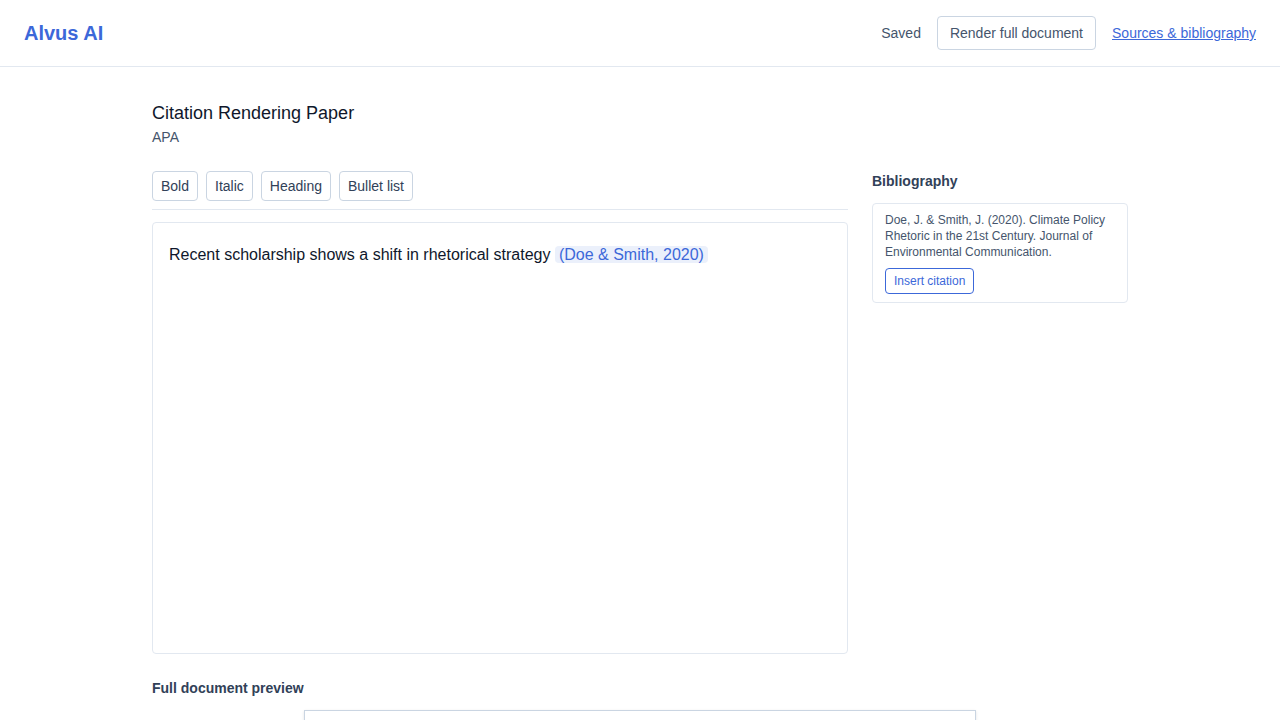
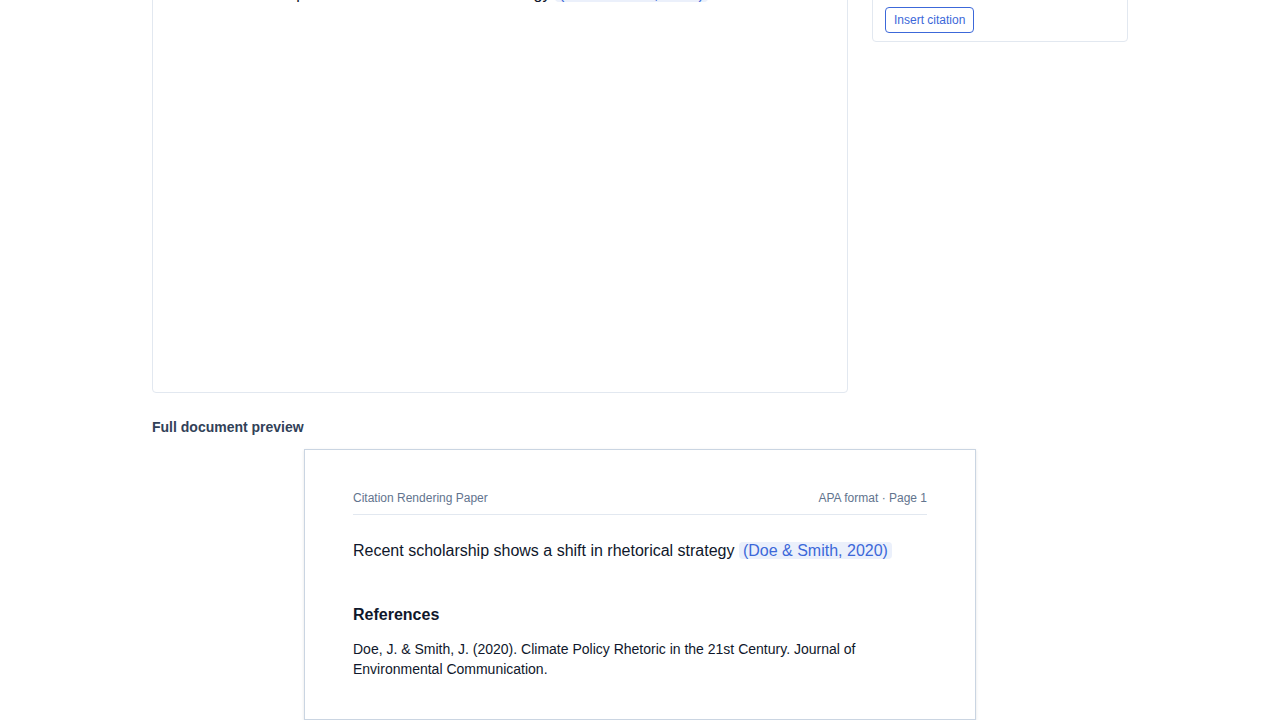
fix(e2e): scroll preview into view before US-019 demo screenshot
Step 3's screenshot was viewport-only and the preview had scrolled below the
fold by that point, so the demo doc showed an empty box instead of the
rendered document. Regenerates docs/demos/US-019.md.

Fixes review finding in #45.

diff --git a/e2e/us-019.spec.ts b/e2e/us-019.spec.ts
@@ -139,6 +139,7 @@ test('US-019: citation-format rendering: in-text citations, full-document re-ren
   await expect(page.getByTestId('bibliography-page-heading')).toHaveText('References');
   await expect(preview.getByTestId(`preview-bibliography-${climateEntry.source_id}`)).toContainText('Doe');
   await expect(page.getByTestId('dangling-citations-warning')).toHaveCount(0);
+  await preview.scrollIntoViewIfNeeded();
   await demo.step('Triggering a full re-render assembles the complete formatted paper with headers, margins, and a bibliography page');
 
   // 7. Removing the cited source from the bibliography and re-rendering

diff --git a/docs/demos/US-019.md b/docs/demos/US-019.md
@@ -1,6 +1,6 @@
 # US-019 — citation-format rendering: in-text citations, full-document re-render, dangling-citation detection
 
-_Generated from this story's spec · 2026-08-11 · PASS_
+_Generated from this story's spec · 2026-08-12 · PASS_
 
 ## 1. The writing view shows the bibliography sidebar alongside the editor
 ![The writing view shows the bibliography sidebar alongside the editor](./assets/us-019-01.png)
